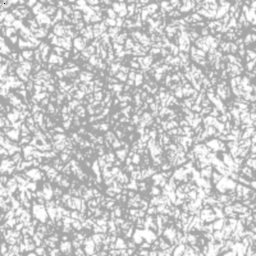
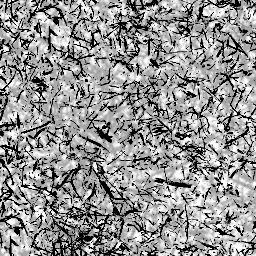
improve on 3d geometries

diff --git a/src/furnishings/sofa.js b/src/furnishings/sofa.js
@@ -12,36 +12,36 @@ export default class Sofa extends Furnishing {
     super(furnishing,colors,brighten);
 
     let scale = 1.45;
-    const material = new MeshPhongMaterial({bumpMap: dirtTexture, color: new Color(this.red/255,this.green/255,this.blue/255)});
+    const material = new MeshPhongMaterial({map: dirtTexture, color: new Color(this.red/255,this.green/255,this.blue/255)});
     
     const cube = new Mesh( new BoxGeometry(0.8*scale,0.35*scale,2.5*scale),material);
-    cube.position.set(0.0,-0.1*scale+0.6*scale-0.15*scale,0.0)
+    cube.position.set(0.0,-0.1*scale+0.6*scale-0.15*scale+0.05*scale,0.0)
 
     let backing = new Mesh(new BoxGeometry( 0.2*scale, 0.8*scale, 2.5*scale),material);
-    backing.position.set(0.375*scale,1*scale-0.15*scale,0.0)
+    backing.position.set(0.375*scale,1*scale-0.15*scale+0.05*scale,0.0)
     backing.rotation.z = -0.2
 
     let armrest1 = new Mesh( new BoxGeometry( 0.6*scale, 0.5*scale, 0.1*scale),material);
-    armrest1.position.set(0.0,0.7*scale-0.15*scale,1.2*scale);
+    armrest1.position.set(0.0,0.7*scale-0.15*scale+0.05*scale,1.2*scale);
 
     let armrest2 = new Mesh( new BoxGeometry( 0.6*scale, 0.5*scale, 0.1*scale),material);
-    armrest2.position.set(0.0,0.7*scale-0.15*scale,-1.2*scale);
+    armrest2.position.set(0.0,0.7*scale-0.15*scale+0.05*scale,-1.2*scale);
 
 
-    let cylinder1 = new Mesh( new CylinderGeometry( 0.1*scale,0.1*scale,0.4*scale,25 ),
+    let cylinder1 = new Mesh( new CylinderGeometry( 0.1*scale,0.1*scale,0.2*scale,25 ),
       material ) 
     cylinder1.position.set(-0.3*scale,0.2*scale,1.0*scale)
     
-    let cylinder2 = new Mesh( new CylinderGeometry( 0.1*scale,0.1*scale,0.4*scale,25 ),
+    let cylinder2 = new Mesh( new CylinderGeometry( 0.1*scale,0.1*scale,0.2*scale,25 ),
       material ) 
     cylinder2.position.set(0.3*scale,0.2*scale,1.0*scale)
     
-    let cylinder3 = new Mesh( new CylinderGeometry( 0.1*scale,0.1*scale,0.4*scale,25 ),
+    let cylinder3 = new Mesh( new CylinderGeometry( 0.1*scale,0.1*scale,0.2*scale,25 ),
       material ) 
     cylinder3.position.set(-0.3*scale,0.2*scale,-1.0*scale)
 
     
-    let cylinder4 = new Mesh( new CylinderGeometry( 0.1*scale,0.1*scale,0.4*scale,25 ),
+    let cylinder4 = new Mesh( new CylinderGeometry( 0.1*scale,0.1*scale,0.2*scale,25 ),
       material )
     cylinder4.position.set(0.3*scale,0.2*scale,-1.0*scale)
 

diff --git a/src/furnishings/nightstand.js b/src/furnishings/nightstand.js
@@ -7,32 +7,31 @@ export default class NightStand extends Furnishing {
     return new NightStand(this.objVal(),colors,brighten);
   }
 
-
   constructor(furnishing,colors,brighten=false) {
     super(furnishing,colors,brighten);
     let scale = 1.5;
 
-    const material = new MeshPhongMaterial({bumpMap: linesTexture, color: new Color(this.red/255,this.green/255,this.blue/255)});
+    const material = new MeshPhongMaterial({map: linesTexture, color: new Color(this.red/255,this.green/255,this.blue/255)});
     
     const cube = new Mesh( new BoxGeometry(0.3*scale,0.4*scale,0.3*scale),material);
     cube.position.set(0.0,-0.1*scale+1.0*scale,0.0)
 
-    let cylinder1 = new Mesh( new CylinderGeometry( 0.02*scale,0.02*scale,0.9*scale,25 ),
+    let cylinder1 = new Mesh( new CylinderGeometry( 0.02*scale,0.02*scale,0.6*scale,25 ),
       material ) 
-    cylinder1.position.set(-0.13*scale,0.25*scale,0.13*scale)
+    cylinder1.position.set(-0.13*scale,0.4*scale,0.13*scale)
     
-    let cylinder2 = new Mesh( new CylinderGeometry( 0.02*scale,0.02*scale,0.9*scale,25 ),
+    let cylinder2 = new Mesh( new CylinderGeometry( 0.02*scale,0.02*scale,0.6*scale,25 ),
       material ) 
-    cylinder2.position.set(0.13*scale,0.25*scale,0.13*scale)
+    cylinder2.position.set(0.13*scale,0.4*scale,0.13*scale)
     
-    let cylinder3 = new Mesh( new CylinderGeometry( 0.02*scale,0.02*scale,0.9*scale,25 ),
+    let cylinder3 = new Mesh( new CylinderGeometry( 0.02*scale,0.02*scale,0.6*scale,25 ),
       material ) 
-    cylinder3.position.set(-0.13*scale,0.25*scale,-0.13*scale)
+    cylinder3.position.set(-0.13*scale,0.4*scale,-0.13*scale)
 
     
-    let cylinder4 = new Mesh( new CylinderGeometry( 0.02*scale,0.02*scale,0.9*scale,25 ),
+    let cylinder4 = new Mesh( new CylinderGeometry( 0.02*scale,0.02*scale,0.6*scale,25 ),
       material )
-    cylinder4.position.set(0.13*scale,0.25*scale,-0.13*scale)
+    cylinder4.position.set(0.13*scale,0.4*scale,-0.13*scale)
 
     
     this.threeDimMeshes.push(cube);

diff --git a/src/furnishings/chair.js b/src/furnishings/chair.js
@@ -11,7 +11,7 @@ export default class Chair extends Furnishing {
     super(furnishing,colors,brighten);
 
     
-    const material = new MeshPhongMaterial({ bumpMap: dirtTexture,  color: new Color(this.red/255,this.green/255,this.blue/255)});
+    const material = new MeshPhongMaterial({ map: dirtTexture,  color: new Color(this.red/255,this.green/255,this.blue/255)});
     var scale = 1.5*0.6;
     const backing = new Mesh( new BoxGeometry( scale*0.1,scale*1,scale*1),material);
     backing.position.set(scale*0.55,scale*1.4,scale*0.0);

diff --git a/src/furnishings/bookcase.js b/src/furnishings/bookcase.js
@@ -11,7 +11,7 @@ export default class BookCase extends Furnishing {
   constructor(furnishing,colors,brighten = false) {
     super(furnishing,colors,brighten);
 
-    const material = new MeshPhongMaterial({bumpMap: linesTexture, color: new Color(this.red/255,this.green/255,this.blue/255)});
+    const material = new MeshPhongMaterial({map: linesTexture, color: new Color(this.red/255,this.green/255,this.blue/255)});
     
     const box1 = new Mesh( new BoxGeometry(1.2,0.1,0.9),material);
     box1.position.set(0.0,0.05+0.15,0.0)

diff --git a/src/furnishings/desk.js b/src/furnishings/desk.js
@@ -11,7 +11,7 @@ export default class Desk extends Furnishing {
   constructor(furnishing,colors,brighten = false) {
     super(furnishing,colors,brighten);
 
-    const material = new MeshPhongMaterial({bumpMap: linesTexture, color: new Color(this.red/255,this.green/255,this.blue/255)});
+    const material = new MeshPhongMaterial({map: linesTexture, color: new Color(this.red/255,this.green/255,this.blue/255)});
     var scale = 1.3;
     
     const cube = new Mesh( new BoxGeometry(1.75*scale,0.5*scale,0.9*scale),material);

diff --git a/src/furnishings/stool.js b/src/furnishings/stool.js
@@ -11,7 +11,7 @@ export default class Stool extends Furnishing {
   constructor(furnishing,colors,brighten=false) {
     super(furnishing,colors,brighten);
 
-    const material = new MeshPhongMaterial({bumpMap: dirtTexture, color: new Color(this.red/255,this.green/255,this.blue/255)});
+    const material = new MeshPhongMaterial({map: dirtTexture, color: new Color(this.red/255,this.green/255,this.blue/255)});
     
     var scale = 0.8;
     const cube = new Mesh( new BoxGeometry(scale*1,scale*0.1,scale*1),material);

diff --git a/src/furnishings/dresser.js b/src/furnishings/dresser.js
@@ -13,7 +13,7 @@ export default class Dresser extends Furnishing {
 
     let scale = 1.25;
 
-    const material = new MeshPhongMaterial({bumpMap: linesTexture, color: new Color(this.red/255,this.green/255,this.blue/255)});
+    const material = new MeshPhongMaterial({map: linesTexture, color: new Color(this.red/255,this.green/255,this.blue/255)});
     
     const cube = new Mesh( new BoxGeometry(1.2*scale,1.5*scale,0.9*scale),material);
     cube.position.set(0.0,-0.1*scale+1.15*scale,0.0)

diff --git a/src/furnishings/longtable.js b/src/furnishings/longtable.js
@@ -10,7 +10,7 @@ export default class LongTable extends Furnishing {
   constructor(furnishing,colors,brighten = false) {
     super(furnishing,colors,brighten);
 
-    const material = new MeshPhongMaterial({bumpMap: linesTexture, color: new Color(this.red/255,this.green/255,this.blue/255)});
+    const material = new MeshPhongMaterial({map: linesTexture, color: new Color(this.red/255,this.green/255,this.blue/255)});
     
     let scale = 1.35;
 

diff --git a/src/furnishings/table.js b/src/furnishings/table.js
@@ -11,7 +11,7 @@ export default class Table extends Furnishing {
   constructor(furnishing,colors,brighten=false) {
     super(furnishing,colors,brighten);
 
-    const material = new MeshPhongMaterial({bumpMap: linesTexture, color: new Color(this.red/255,this.green/255,this.blue/255)});
+    const material = new MeshPhongMaterial({map: linesTexture, color: new Color(this.red/255,this.green/255,this.blue/255)});
     
     let scale = 1.35;
 

diff --git a/src/furnishings/bed.js b/src/furnishings/bed.js
@@ -11,7 +11,7 @@ export default class Bed extends Furnishing {
   constructor(furnishing,colors,brighten = false) {
     super(furnishing,colors,brighten);
 
-    const material = new MeshPhongMaterial({bumpMap: dirtTexture, color: new Color(this.red/255,this.green/255,this.blue/255)});
+    const material = new MeshPhongMaterial({map: dirtTexture, color: new Color(this.red/255,this.green/255,this.blue/255)});
   
     let scale = 1.3;
 
